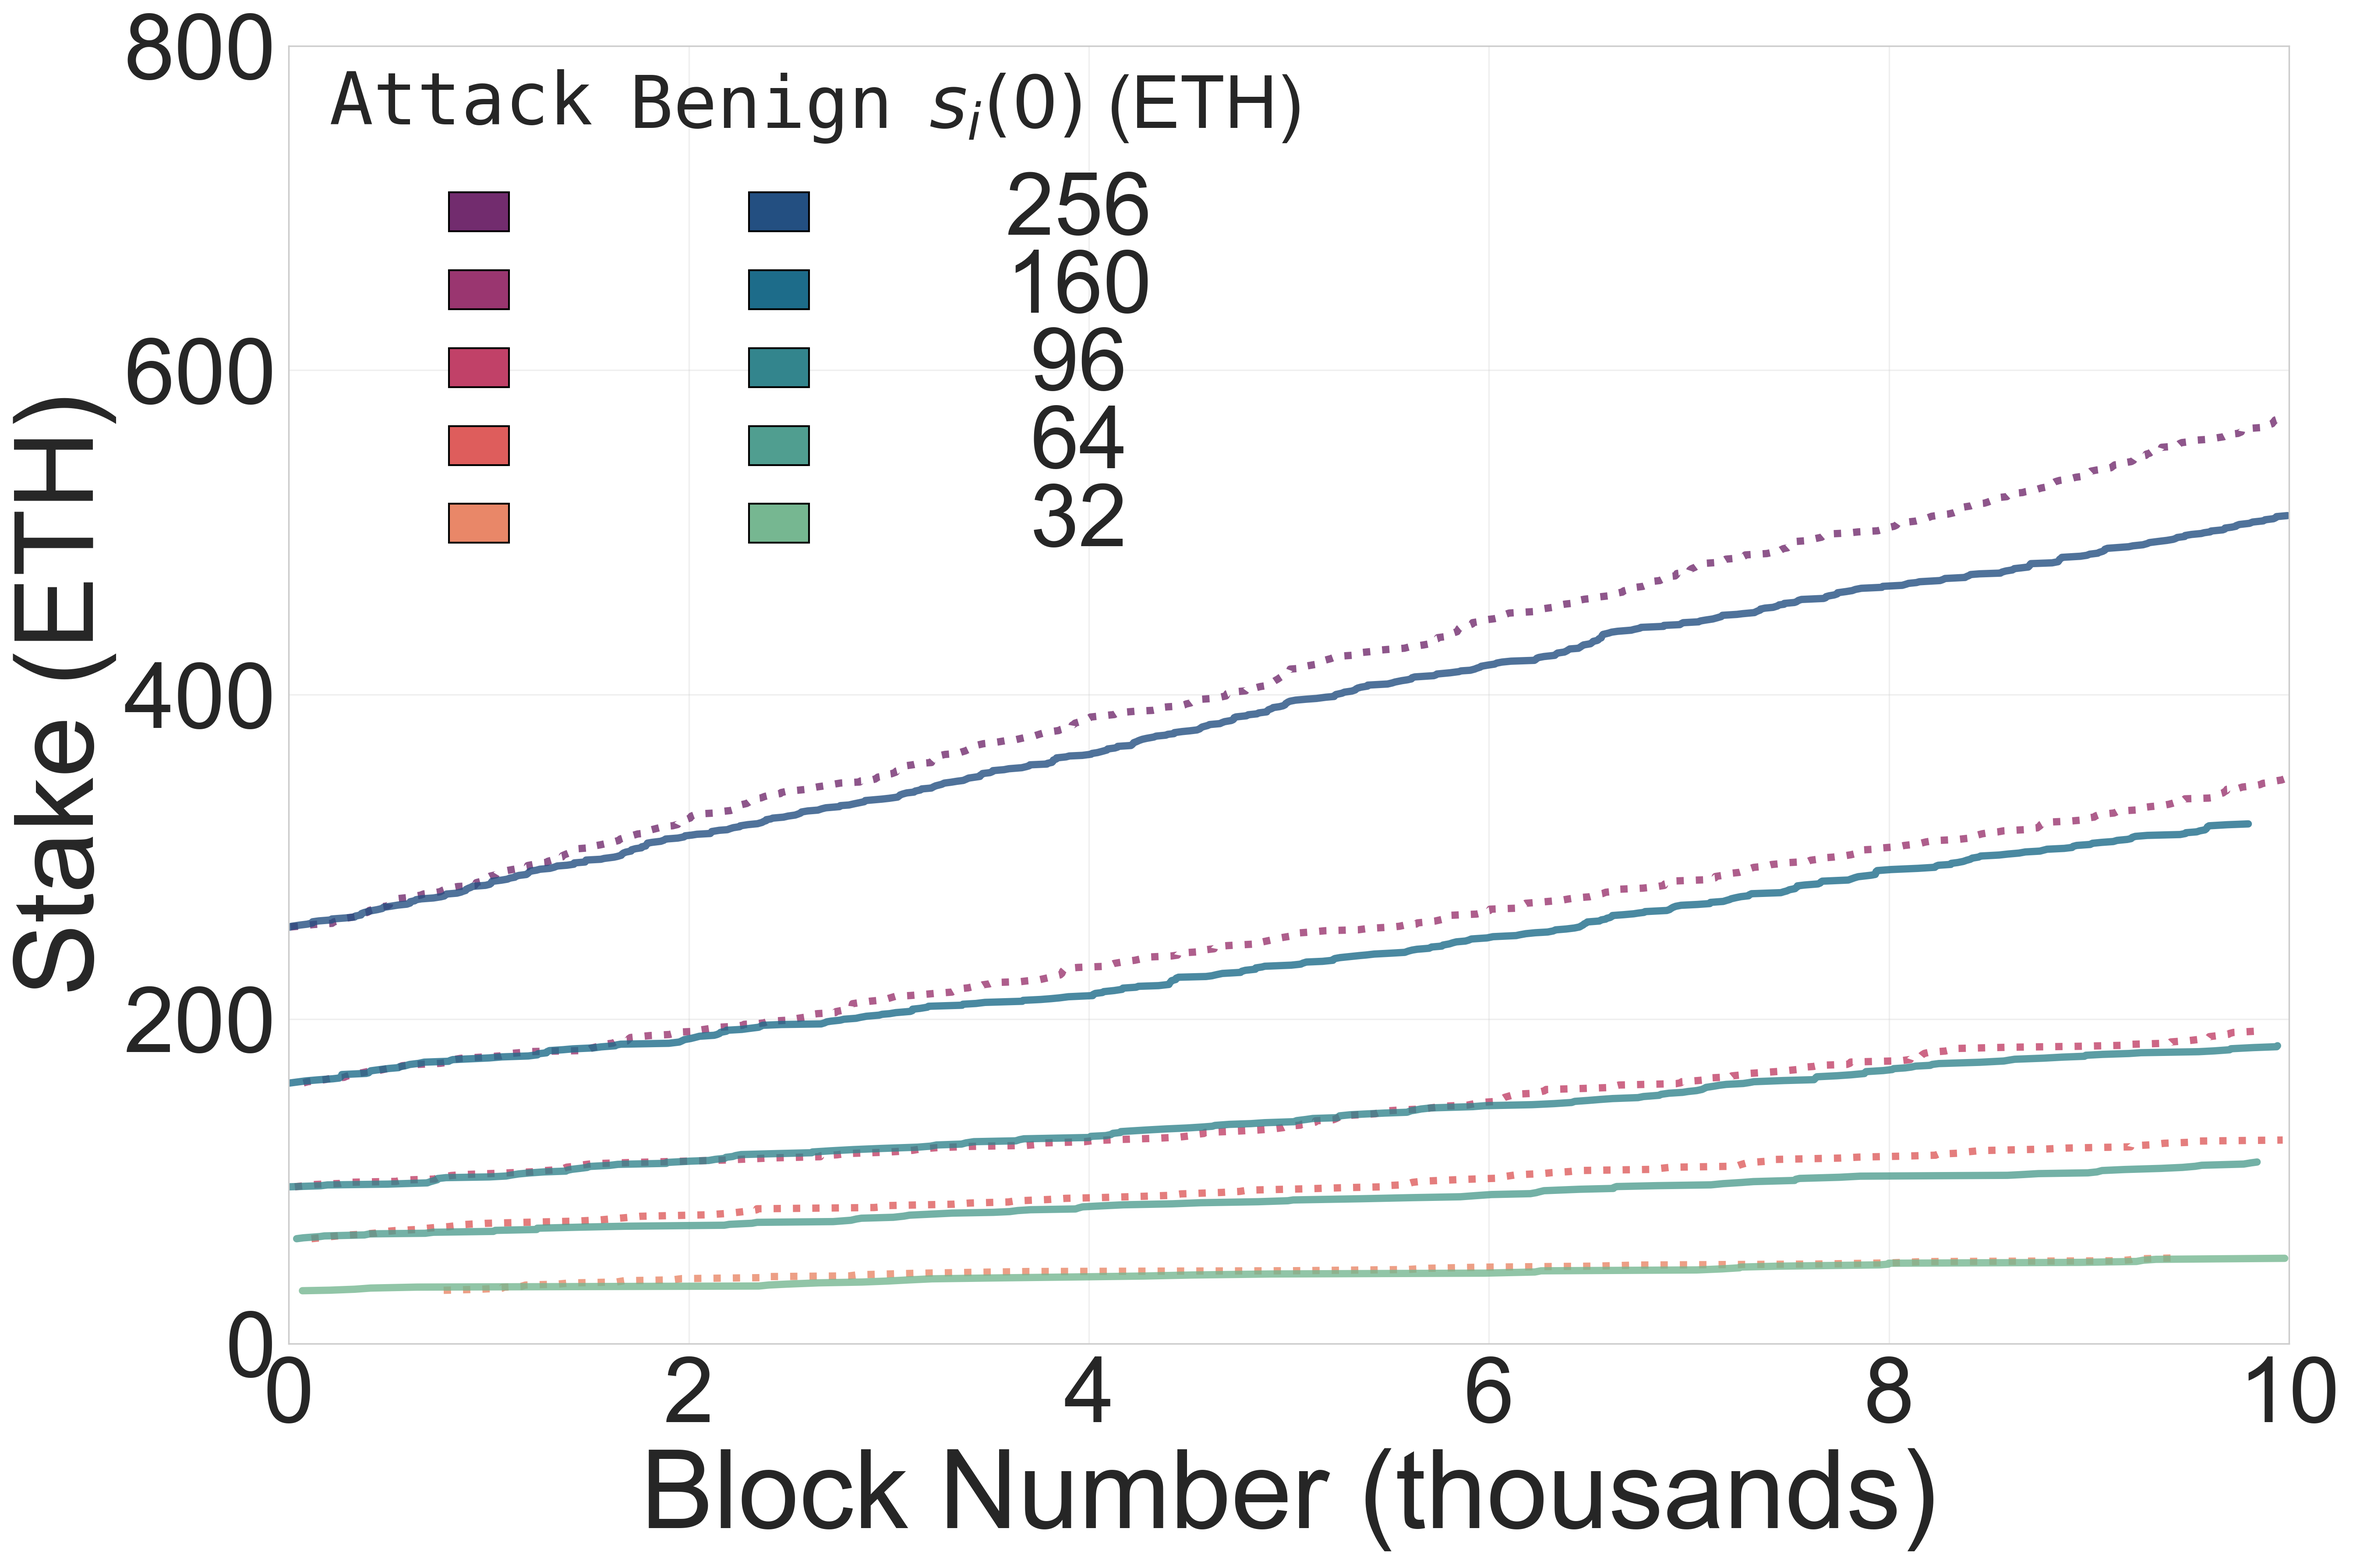
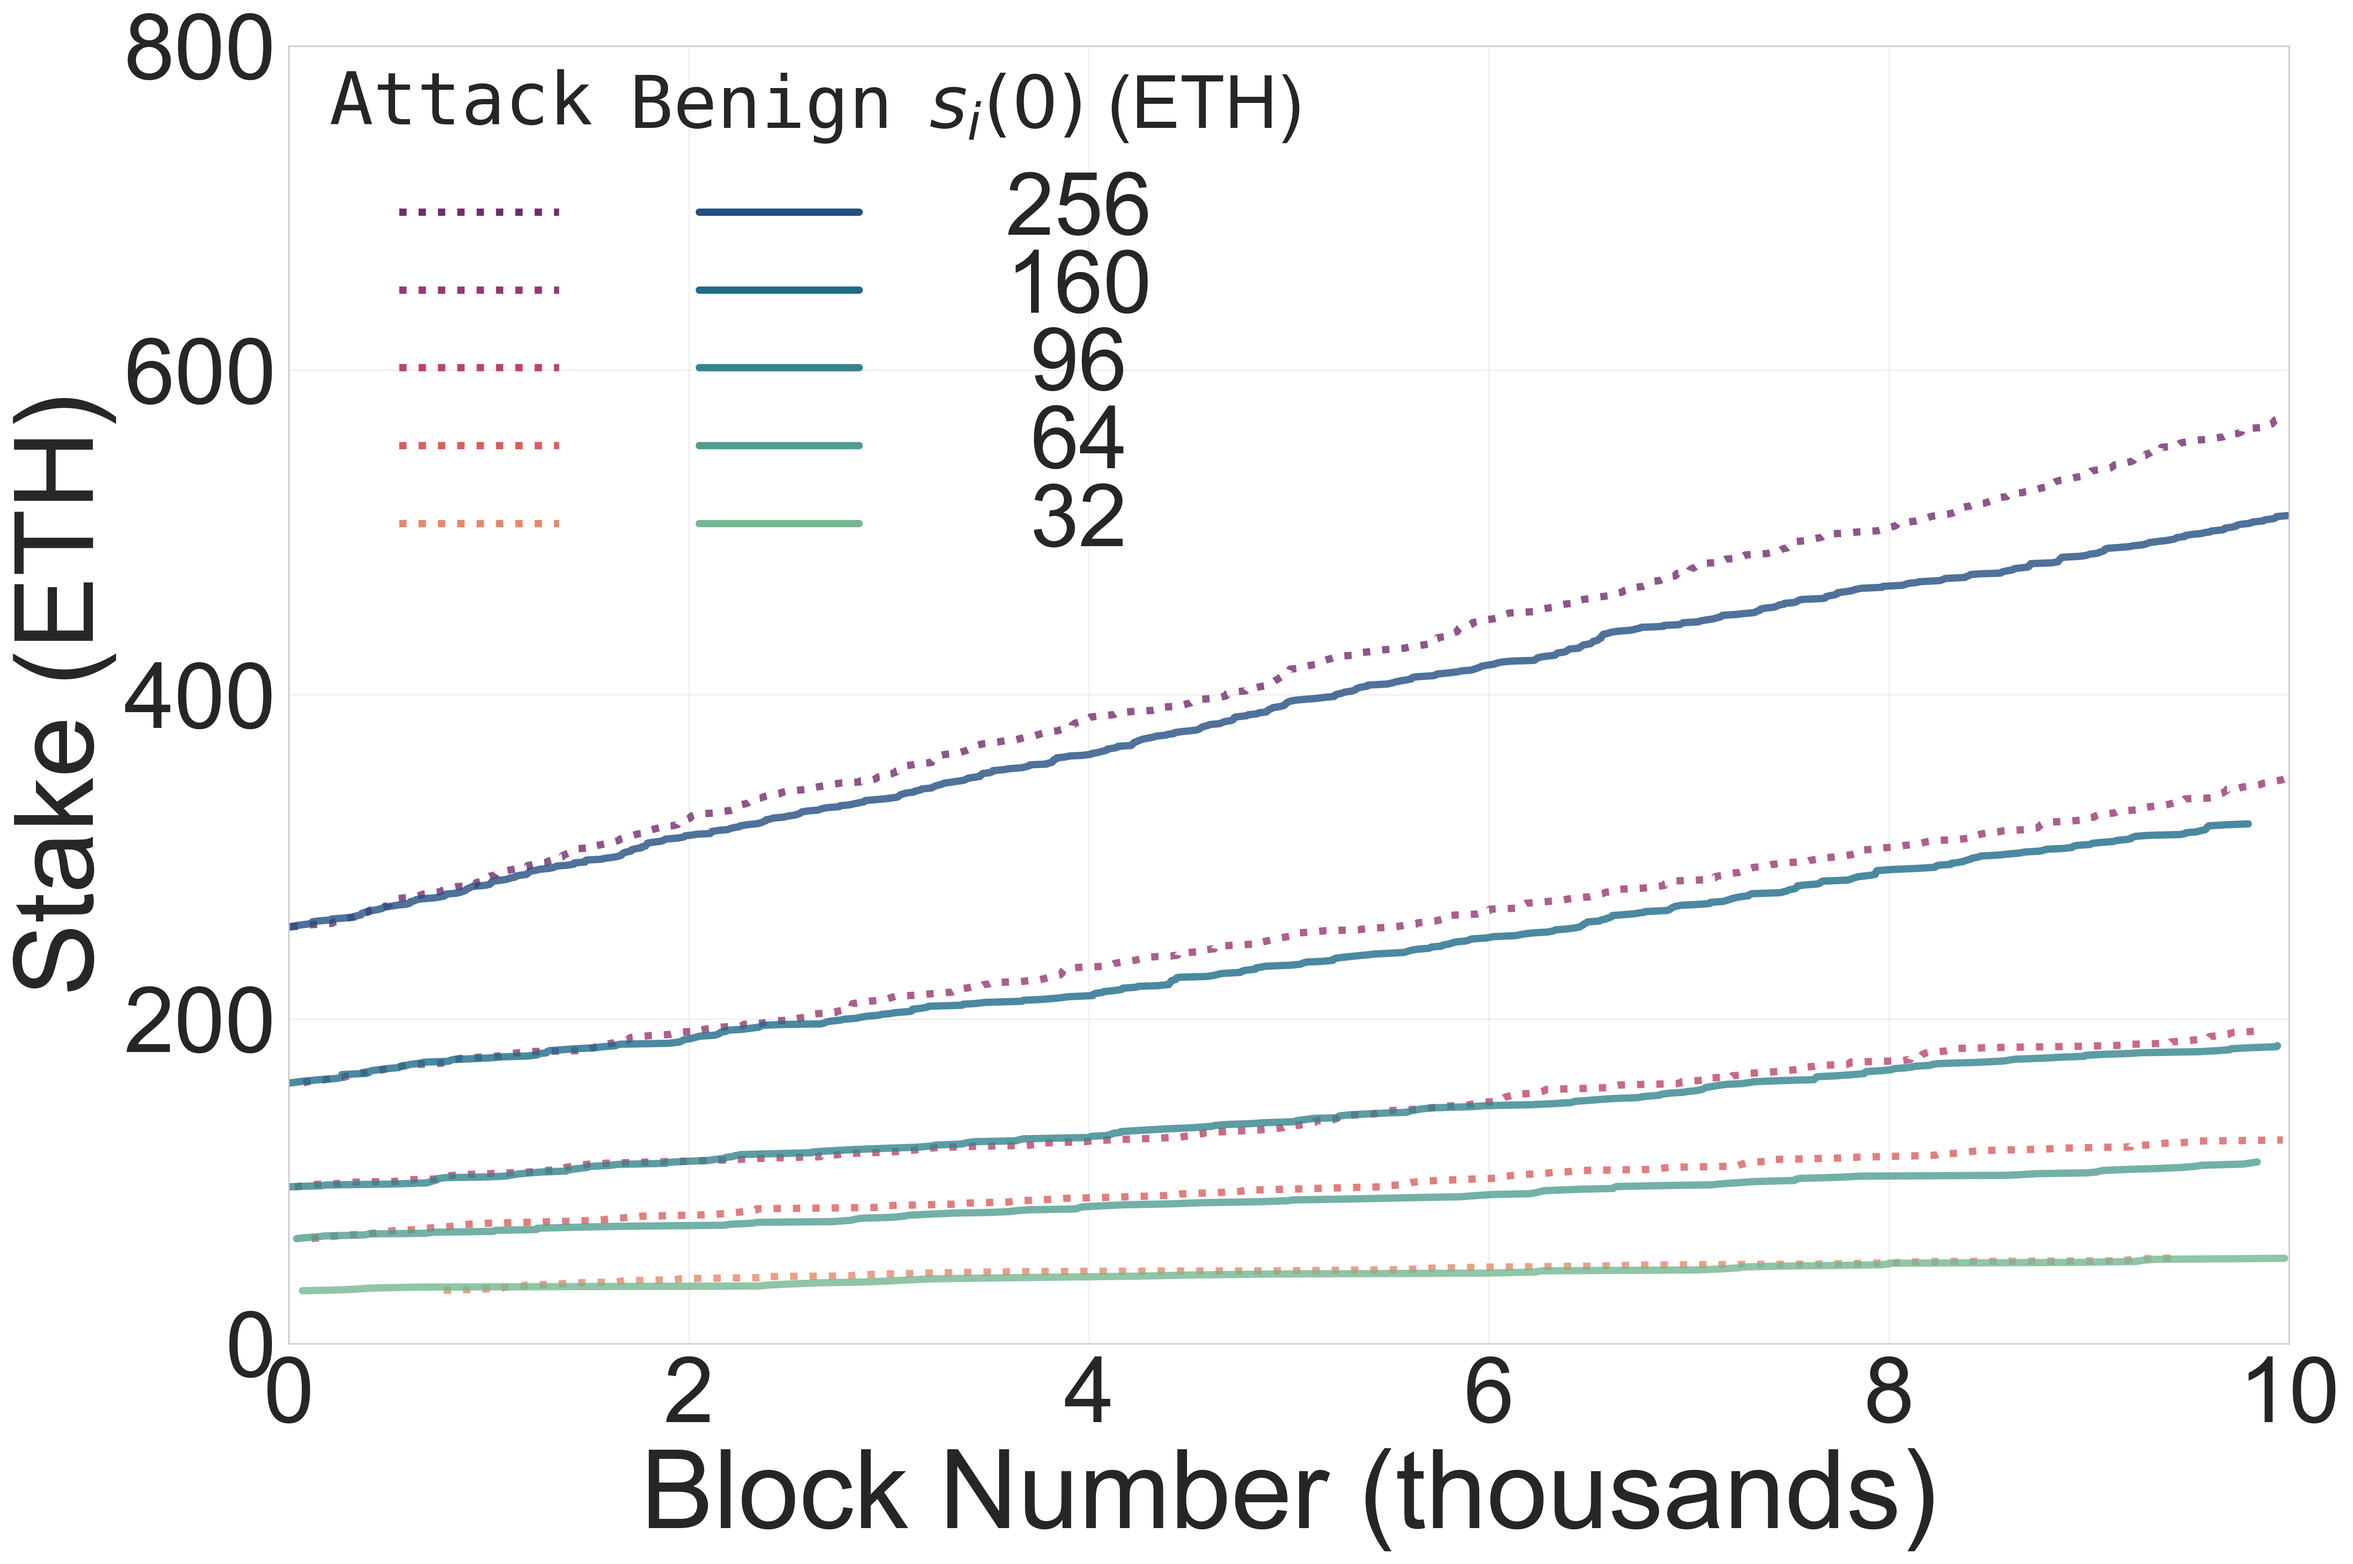
line type

Changed region(s): [[0.3109, 0.1243, 0.373, 0.373], [0.1865, 0.1243, 0.2176, 0.373]]

diff --git a/plots/ss/plot_restaking.py b/plots/ss/plot_restaking.py
@@ -178,30 +178,33 @@ def plot_pos_validators():
     plt.text(legend_x + 2*col_width, legend_y, r'$s_i(0)$ (ETH)', 
              transform=plt.gca().transAxes, fontsize=40, va='top')
     
-    # Create gradient squares for each stake level (256, 160, 96, 64, 32 ETH)
+    # Create gradient lines for each stake level (256, 160, 96, 64, 32 ETH)
     stake_levels_eth = [256, 160, 96, 64, 32]
+    line_length = 0.08
     for i, stake in enumerate(stake_levels_eth):
         row_y = legend_y - row_height * (i + 1.8)
         
-        # Attack column square (centered)
+        # Attack column line (dotted)
         if stake in attack_labels_added:
             stake_idx = stake_levels.index(int(stake * 1e9))
             color = attack_colors[stake_idx]
-            # Draw colored square centered in column
-            square_x = legend_x + col_width/2 - square_size/2
-            square = plt.Rectangle((square_x, row_y - square_size/2), square_size, square_size,
-                                 transform=plt.gca().transAxes, facecolor=color, edgecolor='black', linewidth=1)
-            plt.gca().add_patch(square)
+            # Draw colored dotted line centered in column
+            line_x_start = legend_x + col_width/2 - line_length/2
+            line_x_end = legend_x + col_width/2 + line_length/2
+            line = plt.Line2D([line_x_start, line_x_end], [row_y, row_y],
+                            transform=plt.gca().transAxes, color=color, linestyle=':', linewidth=4)
+            plt.gca().add_line(line)
         
-        # Benign column square (centered)
+        # Benign column line (solid)
         if stake in nonattack_labels_added:
             stake_idx = stake_levels.index(int(stake * 1e9))
             color = nonattack_colors[stake_idx]
-            # Draw colored square centered in column
-            square_x = legend_x + col_width + col_width/2 - square_size/2
-            square = plt.Rectangle((square_x, row_y - square_size/2), square_size, square_size,
-                                 transform=plt.gca().transAxes, facecolor=color, edgecolor='black', linewidth=1)
-            plt.gca().add_patch(square)
+            # Draw colored solid line centered in column
+            line_x_start = legend_x + col_width + col_width/2 - line_length/2
+            line_x_end = legend_x + col_width + col_width/2 + line_length/2
+            line = plt.Line2D([line_x_start, line_x_end], [row_y, row_y],
+                            transform=plt.gca().transAxes, color=color, linestyle='-', linewidth=4)
+            plt.gca().add_line(line)
         
         # Stake amount column (only show once per row)
         if stake in attack_labels_added or stake in nonattack_labels_added:
@@ -394,30 +397,33 @@ def plot_pbs_builders():
     plt.text(legend_x + 2*col_width, legend_y, r'$s_i(0)$ (ETH)', 
              transform=plt.gca().transAxes, fontsize=40, va='top')
     
-    # Create gradient squares for each stake level (256, 160, 96, 64, 32 ETH)
+    # Create gradient lines for each stake level (256, 160, 96, 64, 32 ETH)
     stake_levels_eth = [256.0, 160.0, 96.0, 64.0, 32.0]
+    line_length = 0.08
     for i, stake in enumerate(stake_levels_eth):
         row_y = legend_y - row_height * (i + 1.8)
         
-        # Attack column square (centered)
+        # Attack column line (dotted)
         if stake in attack_labels_added:
             stake_idx = stake_levels.index(stake)
             color = attack_colors[stake_idx]
-            # Draw colored square centered in column
-            square_x = legend_x + col_width/2 - square_size/2
-            square = plt.Rectangle((square_x, row_y - square_size/2), square_size, square_size,
-                                 transform=plt.gca().transAxes, facecolor=color, edgecolor='black', linewidth=1)
-            plt.gca().add_patch(square)
+            # Draw colored dotted line centered in column
+            line_x_start = legend_x + col_width/2 - line_length/2
+            line_x_end = legend_x + col_width/2 + line_length/2
+            line = plt.Line2D([line_x_start, line_x_end], [row_y, row_y],
+                            transform=plt.gca().transAxes, color=color, linestyle=':', linewidth=4)
+            plt.gca().add_line(line)
         
-        # Benign column square (centered)
+        # Benign column line (solid)
         if stake in nonattack_labels_added:
             stake_idx = stake_levels.index(stake)
             color = nonattack_colors[stake_idx]
-            # Draw colored square centered in column
-            square_x = legend_x + col_width + col_width/2 - square_size/2
-            square = plt.Rectangle((square_x, row_y - square_size/2), square_size, square_size,
-                                 transform=plt.gca().transAxes, facecolor=color, edgecolor='black', linewidth=1)
-            plt.gca().add_patch(square)
+            # Draw colored solid line centered in column
+            line_x_start = legend_x + col_width + col_width/2 - line_length/2
+            line_x_end = legend_x + col_width + col_width/2 + line_length/2
+            line = plt.Line2D([line_x_start, line_x_end], [row_y, row_y],
+                            transform=plt.gca().transAxes, color=color, linestyle='-', linewidth=4)
+            plt.gca().add_line(line)
         
         # Stake amount column (only show once per row)
         if stake in attack_labels_added or stake in nonattack_labels_added:
@@ -531,30 +537,34 @@ def plot_pbs_proposers():
     
     plt.grid(True, alpha=0.3)
     
-    # Create custom legend with colored squares in gradient pattern (proposers only have benign)
+    # Create custom legend with colored lines (proposers only have benign, all solid lines)
     legend_x = 0.02
     legend_y = 0.98
-    square_size = 0.03
+    line_length = 0.08
     row_height = 0.06
     
     # Add header
     plt.text(legend_x, legend_y, r'$s_i(0)$ (ETH)', 
              transform=plt.gca().transAxes, fontsize=40, va='top')
     
-    # Create gradient squares for each stake level (256, 160, 96, 64, 32 ETH)
+    # Create gradient lines for each stake level (256, 160, 96, 64, 32 ETH)
     stake_levels_eth = [256.0, 160.0, 96.0, 64.0, 32.0]
+    all_proposer_stakes = [stake for _, stake in proposers_ordered]
     for i, stake in enumerate(stake_levels_eth):
-        row_y = legend_y - row_height * (i + 1.8)
-        
-        # Draw colored square
-        stake_idx = stake_levels.index(stake)
-        color = nonattack_colors[stake_idx]
-        square = plt.Rectangle((legend_x, row_y - square_size/2), square_size, square_size,
-                             transform=plt.gca().transAxes, facecolor=color, edgecolor='black', linewidth=1)
-        plt.gca().add_patch(square)
-        # Text
-        plt.text(legend_x + square_size + 0.02, row_y, f'{stake:.0f}', 
-                transform=plt.gca().transAxes, fontsize=48, va='center', ha='left')
+        if stake in all_proposer_stakes:
+            row_y = legend_y - row_height * (i + 1.8)
+            
+            # Draw colored solid line
+            stake_idx = stake_levels.index(stake)
+            color = nonattack_colors[stake_idx]
+            line_x_start = legend_x
+            line_x_end = legend_x + line_length
+            line = plt.Line2D([line_x_start, line_x_end], [row_y, row_y],
+                            transform=plt.gca().transAxes, color=color, linestyle='-', linewidth=4)
+            plt.gca().add_line(line)
+            # Text
+            plt.text(legend_x + line_length + 0.02, row_y, f'{stake:.0f}', 
+                    transform=plt.gca().transAxes, fontsize=48, va='center', ha='left')
     
     # Remove any automatic legend that might appear
     try:
